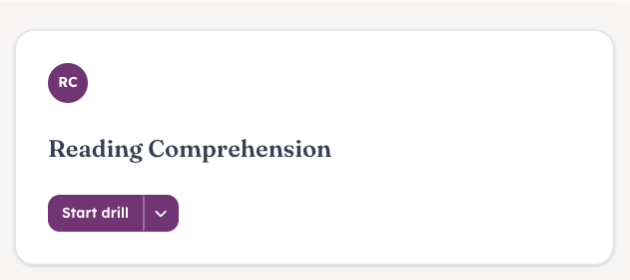
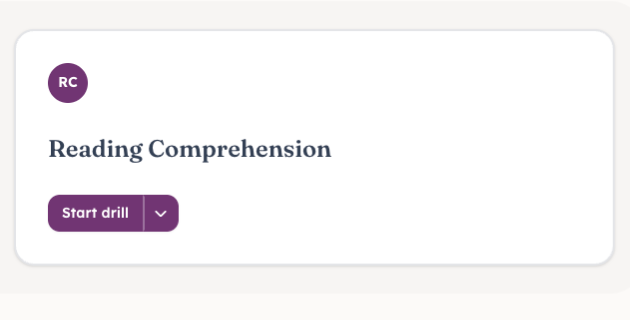
Point the step 1 arrow at Start drill and show Difficulty in step 3
Review found the step 1 arrow tip on the Start drill menu arrow, and the
open Tags list hiding the Difficulty field in step 3. Step 1 now points up
at the Start drill label. Step 3 uses the tutor's screenshot with Tags
set and the Difficulty list open, cropped to those rows, so it also reads
on a phone. The arrow sizes now have names.

Refs #820

diff --git a/src/components/DrillSetupGuide.tsx b/src/components/DrillSetupGuide.tsx
@@ -14,34 +14,40 @@ const PRESS = cx(
 );
 const OUTLINE = cx("inline-flex h-10 shrink-0 items-center justify-center gap-1.5 whitespace-nowrap rounded-xs border border-vellum-line bg-paper px-3.5 text-small font-medium text-ink pointer-hover:bg-vellum", PRESS);
 
-type Arrow = { x: number; y: number; from: "left" | "right" };
+type Arrow = { x: number; y: number; from: "left" | "right" | "below" };
 type Screenshot = { src: string; width: number; height: number; arrows: Arrow[] };
 
 const SCREENSHOTS: Record<GuideContent["section"], Screenshot[]> = {
   "Logical Reasoning": [
-    { src: "/drill-setup-guide/lr-step-1-start-drill.png", width: 630, height: 280, arrows: [{ x: 187, y: 212, from: "right" }] },
+    { src: "/drill-setup-guide/lr-step-1-start-drill.png", width: 630, height: 320, arrows: [{ x: 94, y: 236, from: "below" }] },
     { src: "/drill-setup-guide/lr-step-2-customize.png", width: 630, height: 350, arrows: [{ x: 124, y: 198, from: "left" }] },
-    { src: "/drill-setup-guide/lr-step-3-filters.png", width: 650, height: 850, arrows: [{ x: 128, y: 336, from: "left" }, { x: 128, y: 404, from: "left" }] },
+    { src: "/drill-setup-guide/lr-step-3-filters.png", width: 590, height: 410, arrows: [{ x: 123, y: 102, from: "left" }, { x: 123, y: 170, from: "left" }] },
     { src: "/drill-setup-guide/lr-step-4-count-and-start.png", width: 580, height: 330, arrows: [{ x: 455, y: 64, from: "right" }, { x: 455, y: 149, from: "right" }] },
   ],
   "Reading Comprehension": [
-    { src: "/drill-setup-guide/rc-step-1-start-drill.png", width: 630, height: 280, arrows: [{ x: 188, y: 212, from: "right" }] },
+    { src: "/drill-setup-guide/rc-step-1-start-drill.png", width: 630, height: 320, arrows: [{ x: 95, y: 236, from: "below" }] },
     { src: "/drill-setup-guide/rc-step-2-customize.png", width: 630, height: 350, arrows: [{ x: 122, y: 197, from: "left" }] },
-    { src: "/drill-setup-guide/rc-step-3-filters.png", width: 650, height: 830, arrows: [{ x: 126, y: 334, from: "left" }, { x: 126, y: 402, from: "left" }] },
+    { src: "/drill-setup-guide/rc-step-3-filters.png", width: 590, height: 410, arrows: [{ x: 125, y: 104, from: "left" }, { x: 125, y: 172, from: "left" }] },
     { src: "/drill-setup-guide/rc-step-4-count-and-start.png", width: 580, height: 320, arrows: [{ x: 453, y: 62, from: "right" }, { x: 453, y: 147, from: "right" }] },
   ],
 };
 
+const ARROW = { tail: 80, gap: 4, head: 28, headSpread: 18, stroke: 7, halo: 14 };
+const POINTING: Record<Arrow["from"], [number, number]> = { left: [1, 0], right: [-1, 0], below: [0, -1] };
+
+function arrowPath({ x, y, from }: Arrow) {
+  const [dx, dy] = POINTING[from];
+  const at = (back: number, side = 0) => `${x - dx * back - dy * side} ${y - dy * back + dx * side}`;
+  return `M${at(ARROW.tail)}L${at(ARROW.gap)}M${at(ARROW.head, ARROW.headSpread)}L${at(0)}L${at(ARROW.head, -ARROW.headSpread)}`;
+}
+
 function Arrows({ screenshot: { width, height, arrows } }: { screenshot: Screenshot }) {
-  const paths = arrows.map(({ x, y, from }) => {
-    const toward = from === "left" ? 1 : -1;
-    return `M${x - toward * 100} ${y}H${x - toward * 4}M${x - toward * 28} ${y - 18}L${x} ${y}L${x - toward * 28} ${y + 18}`;
-  });
+  const paths = arrows.map(arrowPath);
   return (
     <svg viewBox={`0 0 ${width} ${height}`} className="pointer-events-none absolute inset-0 size-full" fill="none"
       strokeLinecap="round" strokeLinejoin="round" aria-hidden="true">
-      {paths.map((d) => <path key={`halo ${d}`} d={d} stroke="var(--color-paper)" strokeWidth="14" />)}
-      {paths.map((d) => <path key={d} d={d} stroke="var(--color-danger)" strokeWidth="7" />)}
+      {paths.map((d, index) => <path key={`halo ${index}`} d={d} stroke="var(--color-paper)" strokeWidth={ARROW.halo} />)}
+      {paths.map((d, index) => <path key={index} d={d} stroke="var(--color-danger)" strokeWidth={ARROW.stroke} />)}
     </svg>
   );
 }
